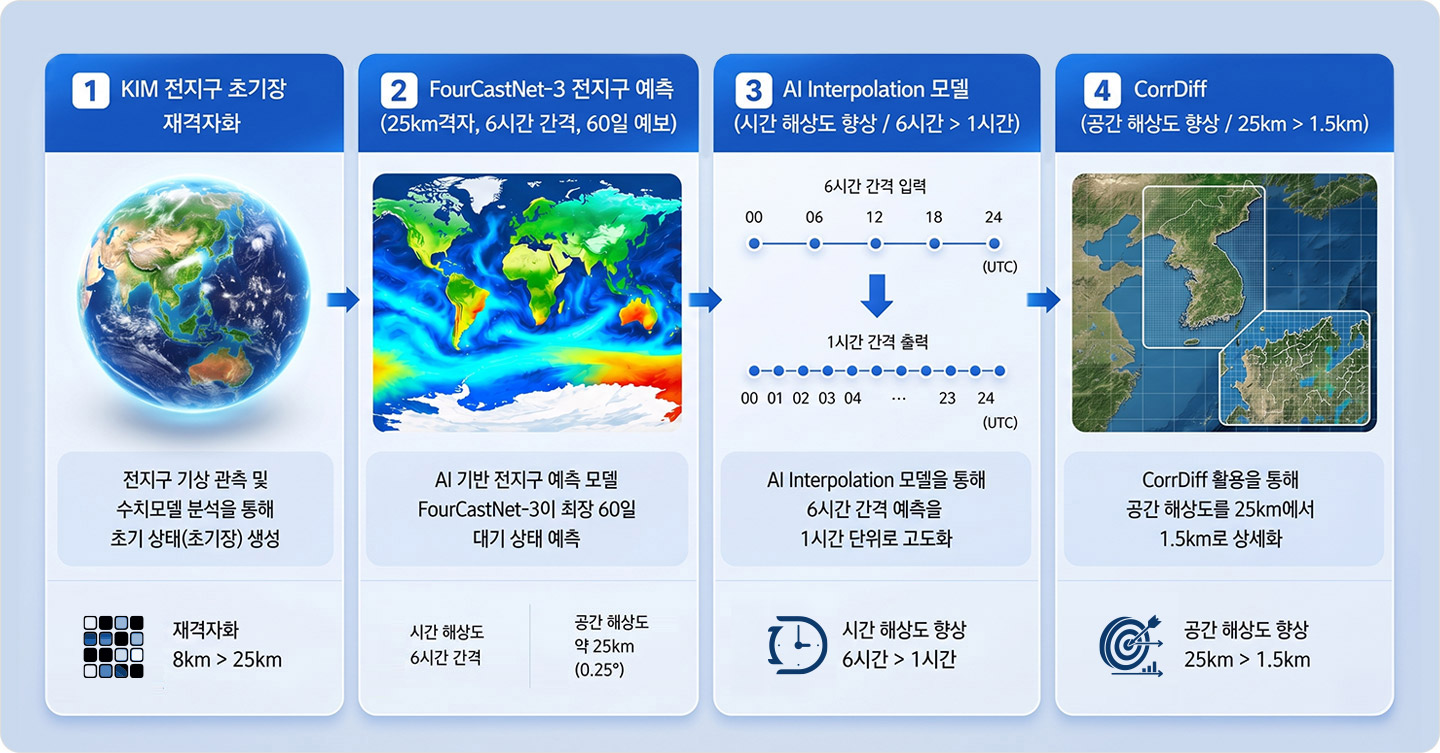
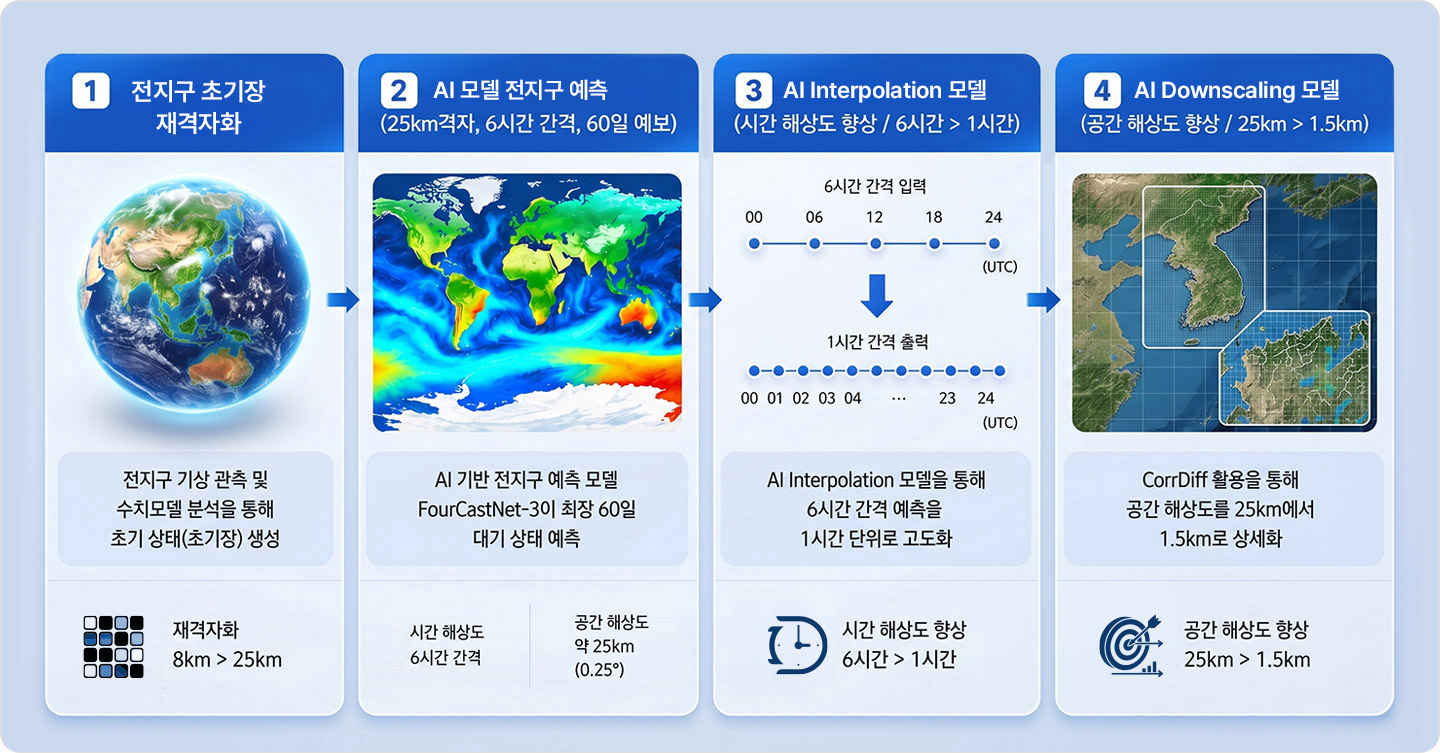
feat: 웨더 맵 히어로 전용 이미지 적용 및 서브 에셋 정리

diff --git a/src/app/data/weathermap/page.tsx b/src/app/data/weathermap/page.tsx
@@ -11,7 +11,6 @@ export const metadata: Metadata = {
   description: "케이웨더 웨더 맵 — 전세계 기상 정보를 한눈에 보는 글로벌 실시간 기상 시각화 플랫폼.",
 };
 
-/* 상단 비주얼 미확정 — 임시로 관측 데이터 히어로 이미지 사용 */
 export default function WeatherMapPage() {
   return (
     <>
@@ -19,7 +18,7 @@ export default function WeatherMapPage() {
       <Header solid />
       <main>
         <SubHero
-          image="/assets/sub/data_weather.jpg"
+          image="/assets/sub/subtop_map.jpg"
           title="웨더 맵"
           subtitle={"케이웨더 맵은 전세계 기상 정보를 한눈에 볼 수 있는\n글로벌 실시간 기상 시각화 플랫폼"}
         />
